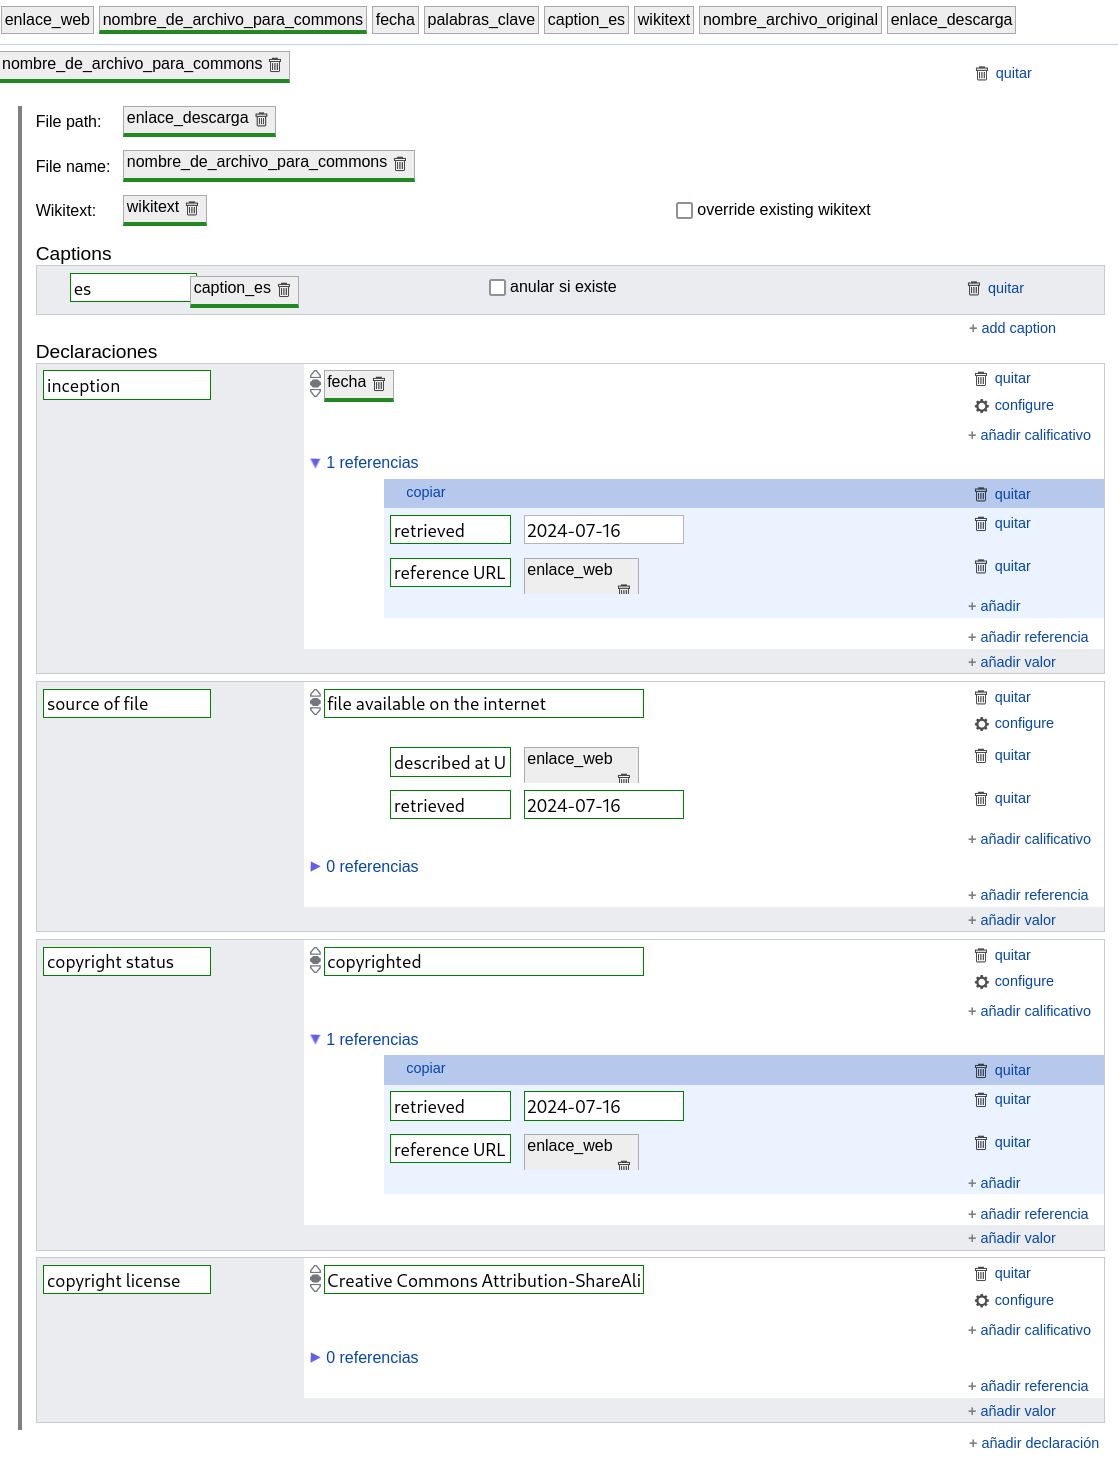
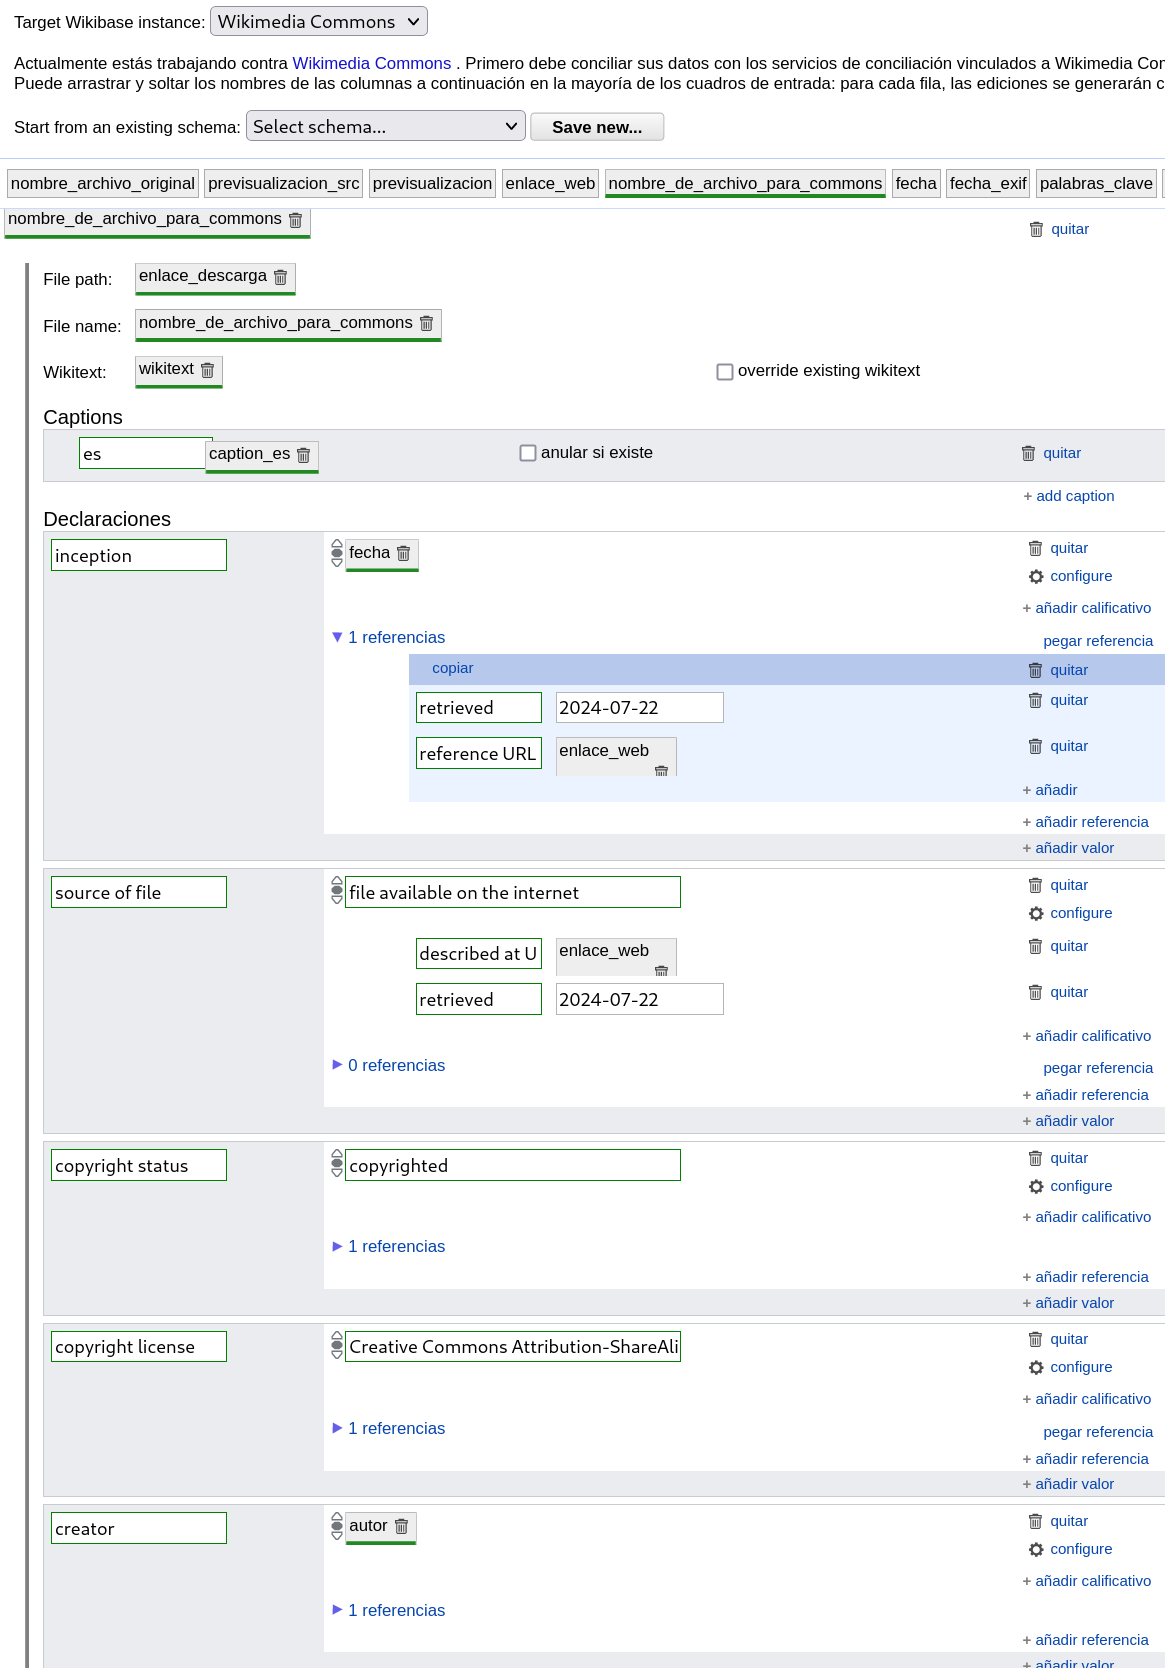
actualizar instrucciones para incluir autor

diff --git a/README.md b/README.md
@@ -54,11 +54,12 @@ chmod +x run.sh
 15. Crear un nuevo proyecto en Open Refine y abrir el .CSV descargado.
 16. Seleccionar instancia de Wikibase = Wikimedia Commons.
 17. Si la planilla aún contiene fotos que no deberían ser subidas a Wikimedia Commons, crear una faceta para filtrarlas.
-18. Reconciliar columna `nombre_de_archivo_para_commons`: Cotejar / Inicia cotejo.
+18. Reconciliar columna `nombre_de_archivo_para_commons`: Cotejar / Iniciar cotejo.
 19. Utilizar la faceta generada por el cotejo para para excluír los archivos que ya están en Commons.
 20. Crear nuevos archivos para los archivos no entontrados: Cotejar / Acciones / Crear un nuevo elemento para cada celda
-21. Crear el esquema de esta forma:
+21. En caso de que tengas datos del autor, limpiar los datos de esta columna y cotejar los autores: Cotejar / Iniciar cotejo. En caso de que haya autores que aún no están en Wikidata, podemos crearlos.
+22. Crear el esquema de esta forma:
 ![esquema](readme-esquema.png)
-22. Cargar ediciones en Wikimedia Commons. Extensiones Wikidata / Cargar ediciones en Wikidata
+23. Cargar ediciones en Wikimedia Commons. Extensiones Wikidata / Cargar ediciones en Wikidata
 ## To do
 [en este doc](https://docs.google.com/document/d/1at_0rbG2jGkm4pLKOaLI98anqZWGFZfCr8gW1YfLqw8/edit#heading=h.7xnc92h81px)
